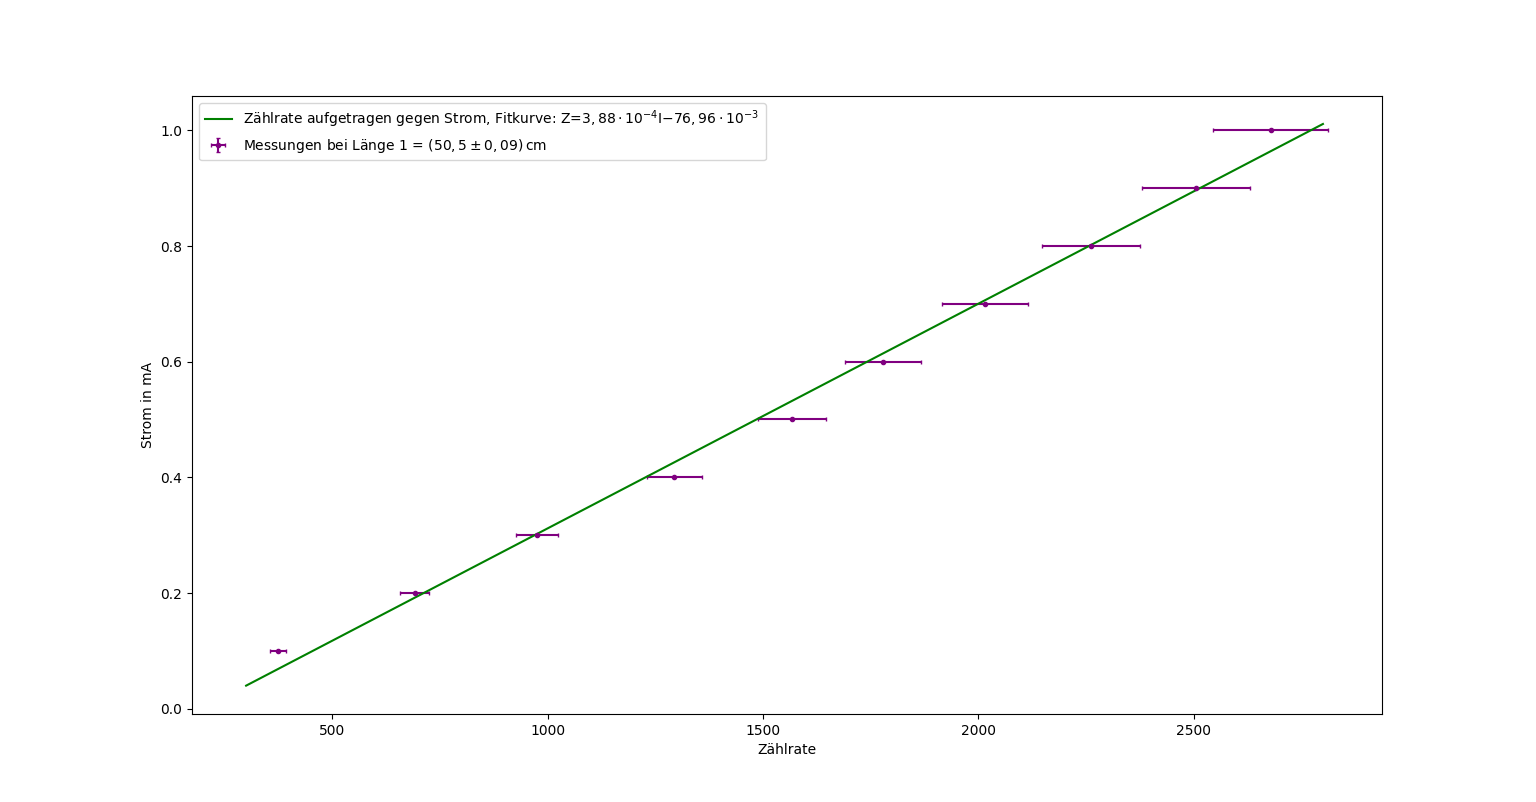
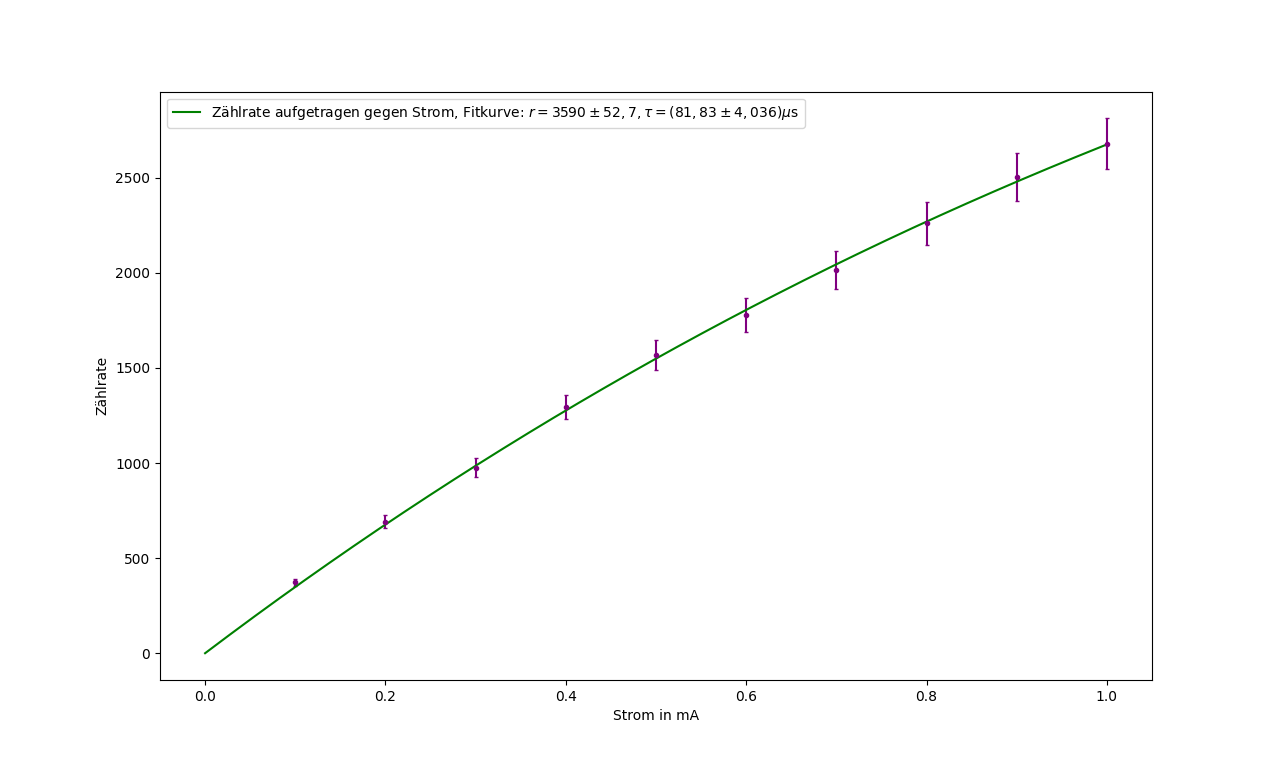
LiF

diff --git a/XST/LiFMaxima.py b/XST/LiFMaxima.py
@@ -53,29 +53,33 @@ fig,ax =plt.subplots()
 
 
 ax.errorbar(
-        nominal_values(maxima),
-        nominal_values(stromI)*1000,
-        label = r'Messungen bei Länge 1 = $(50,5 \pm 0,09)\,$cm',
+        y=nominal_values(maxima),
+        x=nominal_values(stromI)*1000,
+        #label = r'Messungen bei Länge 1 = $(50,5 \pm 0,09)\,$cm',
         color = 'purple',
         linestyle='',
         marker='.',
         capsize=1.5,
         #elinewidth=1.2,
-        yerr=std_devs(stromI),
-        xerr= std_devs(maxima)
+        xerr=std_devs(stromI),
+        yerr= std_devs(maxima)
         )
 
-def fit(x,a,b):
+def fit(I,r,t):
+    return r*I*np.exp(-r*t*I)
 
-        return a*x+b
 
-popt, pcov = curve_fit(fit, xdata=nominal_values(maxima), ydata=nominal_values(stromI)*1000)
-ax.plot(np.linspace(300,2800,10000),fit(np.linspace(300,2800,10000),popt[0],popt[1]),
+popt, pcov = curve_fit(fit, ydata=nominal_values(maxima), xdata=nominal_values(stromI)*1000)
+ax.plot(np.linspace(0,1,400),fit(np.linspace(0,1,400),popt[0],popt[1]),
         'green',
-        label='Zählrate aufgetragen gegen Strom, Fitkurve: Z=$3,88\cdot10^{-4}$I$-76,96\cdot10^{-3}$ ')
+        label=r'Zählrate aufgetragen gegen Strom, Fitkurve: $r = 3590 \pm 52,7, \tau = (81,83 \pm 4,036)\mu$s')
 
-ax.set_xlabel("Zählrate")
-ax.set_ylabel("Strom in mA")
+ax.set_ylabel("Zählrate")
+ax.set_xlabel("Strom in mA")
+
+print(popt[0])
+print(popt[1]*1000*1000)
+print(np.sqrt(pcov))
 
 
 
